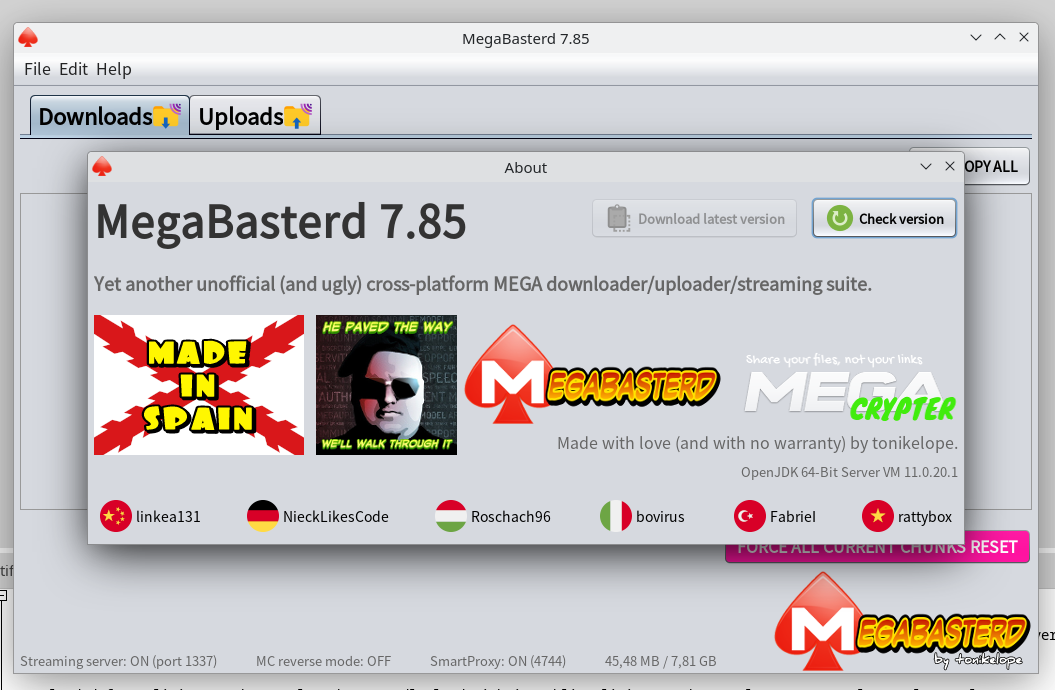
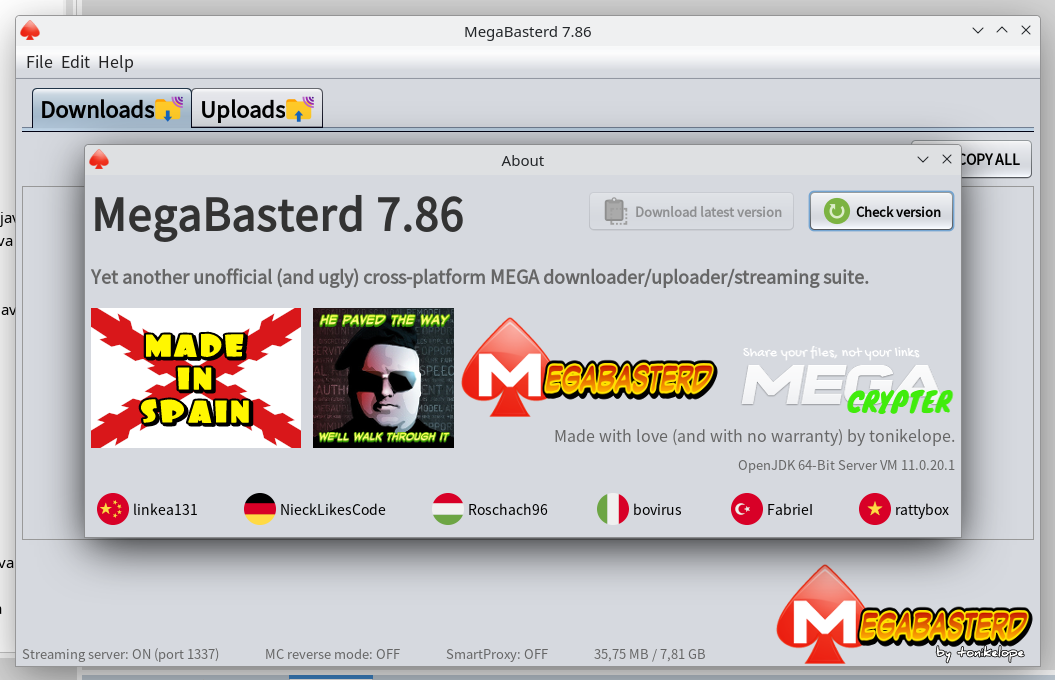
7.86
Fix 7.85 regression on mega connection (uploads)

Changed region(s): [[0.0, 0.0, 1.0, 1.0]]

diff --git a/src/main/java/com/tonikelope/megabasterd/SettingsDialog.java b/src/main/java/com/tonikelope/megabasterd/SettingsDialog.java
@@ -708,6 +708,10 @@ public class SettingsDialog extends javax.swing.JDialog {
                 custom_proxy_textarea.setText(custom_proxy_list);
             }
 
+            revalidate();
+
+            repaint();
+
             setPreferredSize(parent.getSize());
 
             pack();
@@ -866,9 +870,11 @@ public class SettingsDialog extends javax.swing.JDialog {
 
         megacrypter_reverse_warning_label.setFont(new java.awt.Font("Dialog", 0, 14)); // NOI18N
         megacrypter_reverse_warning_label.setText("Note: you MUST \"OPEN\" this port in your router/firewall.");
+        megacrypter_reverse_warning_label.setEnabled(false);
 
         rec_download_slots_label.setFont(new java.awt.Font("Dialog", 2, 16)); // NOI18N
         rec_download_slots_label.setText("Note: if you want to download without using a MEGA PREMIUM account you SHOULD enable it. (Slots consume RAM, so use them moderately).");
+        rec_download_slots_label.setEnabled(false);
 
         megacrypter_reverse_checkbox.setFont(new java.awt.Font("Dialog", 1, 18)); // NOI18N
         megacrypter_reverse_checkbox.setText("Use MegaCrypter reverse mode");
@@ -904,6 +910,7 @@ public class SettingsDialog extends javax.swing.JDialog {
         });
 
         max_down_speed_spinner.setFont(new java.awt.Font("Dialog", 0, 18)); // NOI18N
+        max_down_speed_spinner.setEnabled(false);
 
         verify_file_down_checkbox.setFont(new java.awt.Font("Dialog", 1, 18)); // NOI18N
         verify_file_down_checkbox.setText("Verify file integrity (when download is finished)");
@@ -921,6 +928,7 @@ public class SettingsDialog extends javax.swing.JDialog {
         max_downloads_spinner.setDoubleBuffered(true);
 
         use_mega_account_down_combobox.setFont(new java.awt.Font("Dialog", 0, 20)); // NOI18N
+        use_mega_account_down_combobox.setEnabled(false);
 
         change_download_dir_button.setFont(new java.awt.Font("Dialog", 1, 18)); // NOI18N
         change_download_dir_button.setIcon(new javax.swing.ImageIcon(getClass().getResource("/images/icons8-folder-30.png"))); // NOI18N
@@ -934,9 +942,11 @@ public class SettingsDialog extends javax.swing.JDialog {
 
         max_down_speed_label.setFont(new java.awt.Font("Dialog", 0, 18)); // NOI18N
         max_down_speed_label.setText("Max speed (KB/s):");
+        max_down_speed_label.setEnabled(false);
 
         megacrypter_reverse_port_label.setFont(new java.awt.Font("Dialog", 0, 18)); // NOI18N
         megacrypter_reverse_port_label.setText("TCP Port:");
+        megacrypter_reverse_port_label.setEnabled(false);
 
         default_dir_label.setBackground(new java.awt.Color(153, 255, 153));
         default_dir_label.setFont(new java.awt.Font("Dialog", 0, 18)); // NOI18N
@@ -946,9 +956,11 @@ public class SettingsDialog extends javax.swing.JDialog {
         default_slots_down_label.setFont(new java.awt.Font("Dialog", 0, 18)); // NOI18N
         default_slots_down_label.setText("Default slots per file:");
         default_slots_down_label.setDoubleBuffered(true);
+        default_slots_down_label.setEnabled(false);
 
         use_mega_label.setFont(new java.awt.Font("Dialog", 0, 18)); // NOI18N
         use_mega_label.setText("Default account:");
+        use_mega_label.setEnabled(false);
 
         multi_slot_down_checkbox.setFont(new java.awt.Font("Dialog", 1, 18)); // NOI18N
         multi_slot_down_checkbox.setText("Use multi slot download mode");
@@ -961,9 +973,11 @@ public class SettingsDialog extends javax.swing.JDialog {
 
         default_slots_down_spinner.setFont(new java.awt.Font("Dialog", 0, 18)); // NOI18N
         default_slots_down_spinner.setDoubleBuffered(true);
+        default_slots_down_spinner.setEnabled(false);
         default_slots_down_spinner.setValue(2);
 
         megacrypter_reverse_port_spinner.setFont(new java.awt.Font("Dialog", 0, 18)); // NOI18N
+        megacrypter_reverse_port_spinner.setEnabled(false);
 
         down_dir_label.setFont(new java.awt.Font("Dialog", 1, 18)); // NOI18N
         down_dir_label.setText("Download folder:");
@@ -1212,8 +1226,10 @@ public class SettingsDialog extends javax.swing.JDialog {
 
         max_up_speed_label.setFont(new java.awt.Font("Dialog", 0, 18)); // NOI18N
         max_up_speed_label.setText("Max speed (KB/s):");
+        max_up_speed_label.setEnabled(false);
 
         max_up_speed_spinner.setFont(new java.awt.Font("Dialog", 0, 18)); // NOI18N
+        max_up_speed_spinner.setEnabled(false);
 
         limit_upload_speed_checkbox.setFont(new java.awt.Font("Dialog", 1, 18)); // NOI18N
         limit_upload_speed_checkbox.setText("Limit upload speed");
@@ -1813,7 +1829,7 @@ public class SettingsDialog extends javax.swing.JDialog {
         );
 
         debug_file_path.setFont(new java.awt.Font("Noto Sans", 0, 18)); // NOI18N
-        debug_file_path.setText(MainPanel.MEGABASTERD_HOME_DIR + "/.MEGABASTERD_DEBUG.log");
+        debug_file_path.setText(MainPanel.MEGABASTERD_HOME_DIR + "/MEGABASTERD_DEBUG.log");
 
         javax.swing.GroupLayout advanced_panelLayout = new javax.swing.GroupLayout(advanced_panel);
         advanced_panel.setLayout(advanced_panelLayout);
@@ -3200,6 +3216,7 @@ public class SettingsDialog extends javax.swing.JDialog {
         megacrypter_reverse_port_label.setEnabled(megacrypter_reverse_checkbox.isSelected());
         megacrypter_reverse_port_spinner.setEnabled(megacrypter_reverse_checkbox.isSelected());
         megacrypter_reverse_warning_label.setEnabled(megacrypter_reverse_checkbox.isSelected());
+
     }//GEN-LAST:event_megacrypter_reverse_checkboxStateChanged
 
     private void import_mega_buttonActionPerformed(java.awt.event.ActionEvent evt) {//GEN-FIRST:event_import_mega_buttonActionPerformed

diff --git a/src/main/java/com/tonikelope/megabasterd/FileGrabberDialog.java b/src/main/java/com/tonikelope/megabasterd/FileGrabberDialog.java
@@ -522,7 +522,7 @@ public class FileGrabberDialog extends javax.swing.JDialog {
 
             _base_path = files_selected[0].getParentFile().getAbsolutePath();
 
-            dir_name_textfield.setText(files_selected[0].getParentFile().getName() + "_" + genID(10));
+            dir_name_textfield.setText(files_selected[0].getParentFile().getName() + "_" + String.valueOf(System.currentTimeMillis()/1000));
 
             dir_name_textfield.setEnabled(true);
 
@@ -624,7 +624,7 @@ public class FileGrabberDialog extends javax.swing.JDialog {
 
                     _base_path = filechooser.getSelectedFile().getAbsolutePath();
 
-                    dir_name_textfield.setText(filechooser.getSelectedFile().getName() + "_" + genID(10));
+                    dir_name_textfield.setText(filechooser.getSelectedFile().getName() + "_" + String.valueOf(System.currentTimeMillis()/1000));
 
                     dir_name_textfield.setEnabled(true);
 
@@ -988,7 +988,7 @@ public class FileGrabberDialog extends javax.swing.JDialog {
         _base_path = (files.size() == 1 && files.get(0).isDirectory()) ? files.get(0).getAbsolutePath() : files.get(0).getParentFile().getAbsolutePath();
 
         MiscTools.GUIRunAndWait(() -> {
-            dir_name_textfield.setText(((files.size() == 1 && files.get(0).isDirectory()) ? files.get(0).getName() : files.get(0).getParentFile().getName()) + "_" + genID(10));
+            dir_name_textfield.setText(((files.size() == 1 && files.get(0).isDirectory()) ? files.get(0).getName() : files.get(0).getParentFile().getName()) + "_" + String.valueOf(System.currentTimeMillis()/1000));
 
             dir_name_textfield.setEnabled(true);
 

diff --git a/src/main/java/com/tonikelope/megabasterd/Download.java b/src/main/java/com/tonikelope/megabasterd/Download.java
@@ -716,9 +716,8 @@ public class Download implements Transference, Runnable, SecureSingleThreadNotif
                             if (!isExit() && !_thread_pool.isShutdown() && _status_error == null && progress < getFile_size() && progress <= last_progress) {
                                 stopDownloader("PROGRESS WATCHDOG TIMEOUT!");
 
-                                if (MainPanel.getProxy_manager() != null) {
+                                if (MainPanel.isUse_smart_proxy()) {
                                     String lista_proxy = DBTools.selectSettingValue("custom_proxy_list");
-
                                     String url_list = MiscTools.findFirstRegex("^#(http.+)$", lista_proxy.trim(), 1);
                                     MainPanel.getProxy_manager().refreshProxyList(url_list); //Force SmartProxy proxy list refresh
                                 }

diff --git a/src/main/java/com/tonikelope/megabasterd/MainPanel.java b/src/main/java/com/tonikelope/megabasterd/MainPanel.java
@@ -69,7 +69,7 @@ import javax.swing.UIManager;
  */
 public final class MainPanel {
 
-    public static final String VERSION = "7.85";
+    public static final String VERSION = "7.86";
     public static final boolean FORCE_SMART_PROXY = false; //TRUE FOR DEBUGING SMART PROXY
     public static final int THROTTLE_SLICE_SIZE = 16 * 1024;
     public static final int DEFAULT_BYTE_BUFFER_SIZE = 16 * 1024;
@@ -270,7 +270,7 @@ public final class MainPanel {
             PrintStream fileOut;
 
             try {
-                fileOut = new PrintStream(new FileOutputStream(MainPanel.MEGABASTERD_HOME_DIR + "/.MEGABASTERD_DEBUG.log"));
+                fileOut = new PrintStream(new FileOutputStream(MainPanel.MEGABASTERD_HOME_DIR + "/MEGABASTERD_DEBUG.log"));
 
                 System.setOut(fileOut);
                 System.setErr(fileOut);

diff --git a/src/main/java/com/tonikelope/megabasterd/ChunkDownloader.java b/src/main/java/com/tonikelope/megabasterd/ChunkDownloader.java
@@ -143,7 +143,7 @@ public class ChunkDownloader implements Runnable, SecureSingleThreadNotifiable {
 
             SmartMegaProxyManager proxy_manager = MainPanel.getProxy_manager();
 
-            if (proxy_manager.isForce_smart_proxy()) {
+            if (MainPanel.isUse_smart_proxy() && proxy_manager.isForce_smart_proxy()) {
 
                 String[] smart_proxy = proxy_manager.getProxy(_excluded_proxy_list);
 

diff --git a/src/main/java/com/tonikelope/megabasterd/MegaAPI.java b/src/main/java/com/tonikelope/megabasterd/MegaAPI.java
@@ -381,7 +381,7 @@ public class MegaAPI implements Serializable {
 
         SmartMegaProxyManager proxy_manager = MainPanel.getProxy_manager();
 
-        if (proxy_manager.isForce_smart_proxy()) {
+        if (MainPanel.isUse_smart_proxy() && proxy_manager.isForce_smart_proxy()) {
 
             String[] smart_proxy = proxy_manager.getProxy(excluded_proxy_list);
 

diff --git a/src/main/java/com/tonikelope/megabasterd/MiscTools.java b/src/main/java/com/tonikelope/megabasterd/MiscTools.java
@@ -1011,7 +1011,7 @@ public class MiscTools {
 
         ArrayList<String> excluded_proxy_list = new ArrayList<>();
 
-        if (proxy_manager.isForce_smart_proxy()) {
+        if (MainPanel.isUse_smart_proxy() && proxy_manager.isForce_smart_proxy()) {
 
             String[] smart_proxy = proxy_manager.getProxy(excluded_proxy_list);
 
